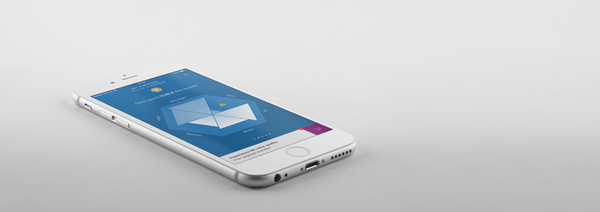
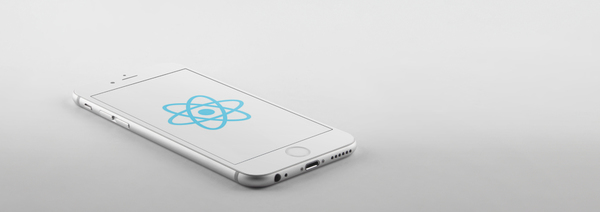
blog: react copy feedback and new screenshot

Changed region(s): [[0.15, 0.3113, 0.57, 0.7642]]

diff --git a/app/_scss/_syntax.scss b/app/_scss/_syntax.scss
@@ -1,4 +1,4 @@
-.highlight  { background: #ffffff; }
+.highlight  { background: #f9f9f9; padding: 1rem; white-space: pre; overflow-x: scroll; }
 .highlight .c { color: #999988; font-style: italic } /* Comment */
 //.highlight .err { color: #a61717; background-color: #e3d2d2 } /* Error */
 .highlight .k { font-weight: bold } /* Keyword */

diff --git a/app/blog/_drafts/2016-02-29-why-we-chose-react-for-hybrid-app.md b/app/blog/_drafts/2016-02-29-why-we-chose-react-for-hybrid-app.md
@@ -1,27 +1,26 @@
 ---
 layout: post
-title:  "Why we picked React for our latest hybrid app project"
-description: "We recently had the pleasure of working with Fjord (Accenture) to prototype and build an HTML5 hybrid app for one of their clients."
+title:  "Why we picked React for our latest hybrid app"
+description: "We recently had the pleasure of working with Fjord to prototype and build an HTML5 hybrid app for one of their clients."
 og_image: /images/blog/why-react/screenshot.jpg
+private: true
 ---
 
+# Why we picked React for our latest hybrid app
 
-
-# How we built a hybrid app using React
-
-**We recently had the pleasure of working with [Fjord](https://www.fjordnet.com/){:target="_blank"} (Accenture) to prototype and build an HTML5 hybrid app for one of their clients.**
+**We recently had the pleasure of working with [Fjord](https://www.fjordnet.com/){:target="_blank"} to prototype and build an HTML5 hybrid app for one of their clients.**
 
 {% include post-image.html alt="HTML5 hybrid app using React" src="/images/blog/why-react/screenshot.jpg" margin="both" ratio="custom_35" %}
 
 Hybrid apps provide a way to build an application using web technologies and package it as native apps for multiple mobile platforms.
 
-In this article we share the techniques and challenges we faced while building an app for iOS and Android using React &amp; Cordova.
+In this article we share the techniques and challenges we faced while building an app for iOS and Android using [React](https://facebook.github.io/react/){:target="_blank"} &amp; [Cordova](https://cordova.apache.org/){:target="_blank"}.
 
-***Note:** React Native was announced during 2015, however when this project started, React Native for Android had not been released making it a no-go for us.*
+_**Note:** React Native was announced during 2015, however when this project started, React Native for Android had not been released making it a no-go for us._
 
 
 ## Learning from experience
-Writing hybrid apps is nothing new and it’s certainly not the right choice for all applications. The challange is to achieve the premium feeling of a native app with smooth animations and a snappy interface. We’ve ventured down this path [many times](http://blog.14islands.com/post/52546836134/case-study-betting-on-a-fully-responsive-web){:target="_blank"} in [the past](http://blog.14islands.com/post/52934733389/racer-a-chrome-experiment){:target="_blank"} using more conventional JavaScript MVC frameworks such as Backbone.js.
+Writing hybrid apps is nothing new and it’s certainly not the right choice for all applications. The challenge is to achieve the premium feeling of a native app with smooth animations and a snappy interface. We’ve ventured down this path [many times](http://blog.14islands.com/post/52546836134/case-study-betting-on-a-fully-responsive-web){:target="_blank"} in [the past](http://blog.14islands.com/post/52934733389/racer-a-chrome-experiment){:target="_blank"} using more conventional JavaScript MVC frameworks such as Backbone.js.
 
 Most hybrid projects start with a fast, responsive UI - until you hit a wall. This wall usually appears late in the project, after weeks of adding functionality and more and more content has been injected into the DOM. The relationship of view components has become hard to keep track of, and circular dependencies of event listeners cause too many reads/writes to the DOM.
 
@@ -90,7 +89,7 @@ class MyComponent extends Component {
 We used this approach to hook up View components with our Data stores.
 
 ## Unidirectional data flow
-But there's more to an app than just the view layer - and this is where it gets tricky. React can be used in combination with most other frameworks out there to render your existing data model. However the problems with large scale MVC applications and cyclical dependencies are still there, so Facebook created the Flux design pattern which has a "unidirectional data flow" to make it more predictable.
+There's more to an app than just the view layer - and this is where it gets tricky. React can be used in combination with most other frameworks out there to render your existing data model. However the problems with large scale MVC applications and cyclical dependencies are still there, so Facebook created the Flux design pattern which has a "unidirectional data flow" to make it more predictable.
 
 {% include post-image.html alt="Flux data flow" src="/images/blog/why-react/flux-flow-annotated.png" margin="both" ratio="custom_55" %}
 
@@ -100,9 +99,9 @@ There are endless implementations of Flux and after researching many of them we 
 In order for an app to feel native it’s super important that the UI has smooth animations at a steady 60 FPS and no flicker. Mobile browsers have noticeably slow JavaScript performance so we made sure to only use pure CSS animations and transitions.
 
 ### Inline styles vs CSS
-One of the hottest topics in the React world lately is whether to use Inline Styles, i.e. setting styles with an element’s style property instead of CSS. Let's be honest, we love CSS and are not too fond of this approach.
+One of the hottest topics in the React world lately is whether to use Inline Styles, i.e. setting styles with an element’s style property instead of CSS.
 
-CSS has a clear separation of concerns and we as web developers already know how to efficently apply Responsive Web Design principles to support different capabilities and screen sizes.
+Let's be honest, we love CSS and are not too fond of this approach. CSS has a clear separation of concerns and we as web developers already know how to efficently apply Responsive Web Design principles to support different capabilities and screen sizes.
 
 The biggest argument for Inline styles is that "State" is mostly a JavaScript concern, and a lot of times we need to change styles based on dynamic conditions. Though when you think about it, adding and removing modifier classes is a perfect tool for propagating state changes already.
 
@@ -191,7 +190,7 @@ We are super happy with our choice to go with React for this project, but we wou
 
 
 #### Where to go from here
-*React Native is currently gaining momentum and it will be interesting to follow. The key difference is that has a proxy layer between JavaScript and the native SDK. It runs JavaScript code in a separate thread, making it possible to have smooth animations while executing other operations. React Native has also chosen inline styles over CSS using a Flexbox approach. It's estimated that over [85% of the codebase will be shareable](http://nerds.airbnb.com/facebook-react-native/){:target="_blank"} when using React Native.*
+*React Native is currently gaining momentum and it will be interesting to follow. The key difference is that has a proxy layer between JavaScript and the native SDK. It runs JavaScript code in a separate thread, making it possible to have smooth animations while executing other operations. React Native has also chosen inline styles over CSS using a Flexbox approach. It's estimated that over [85% of the codebase will be shareable](http://nerds.airbnb.com/facebook-react-native/){:target="_blank"} between iOS and Android when using React Native.*
 
 
 {% include blog-author-david.html %}
